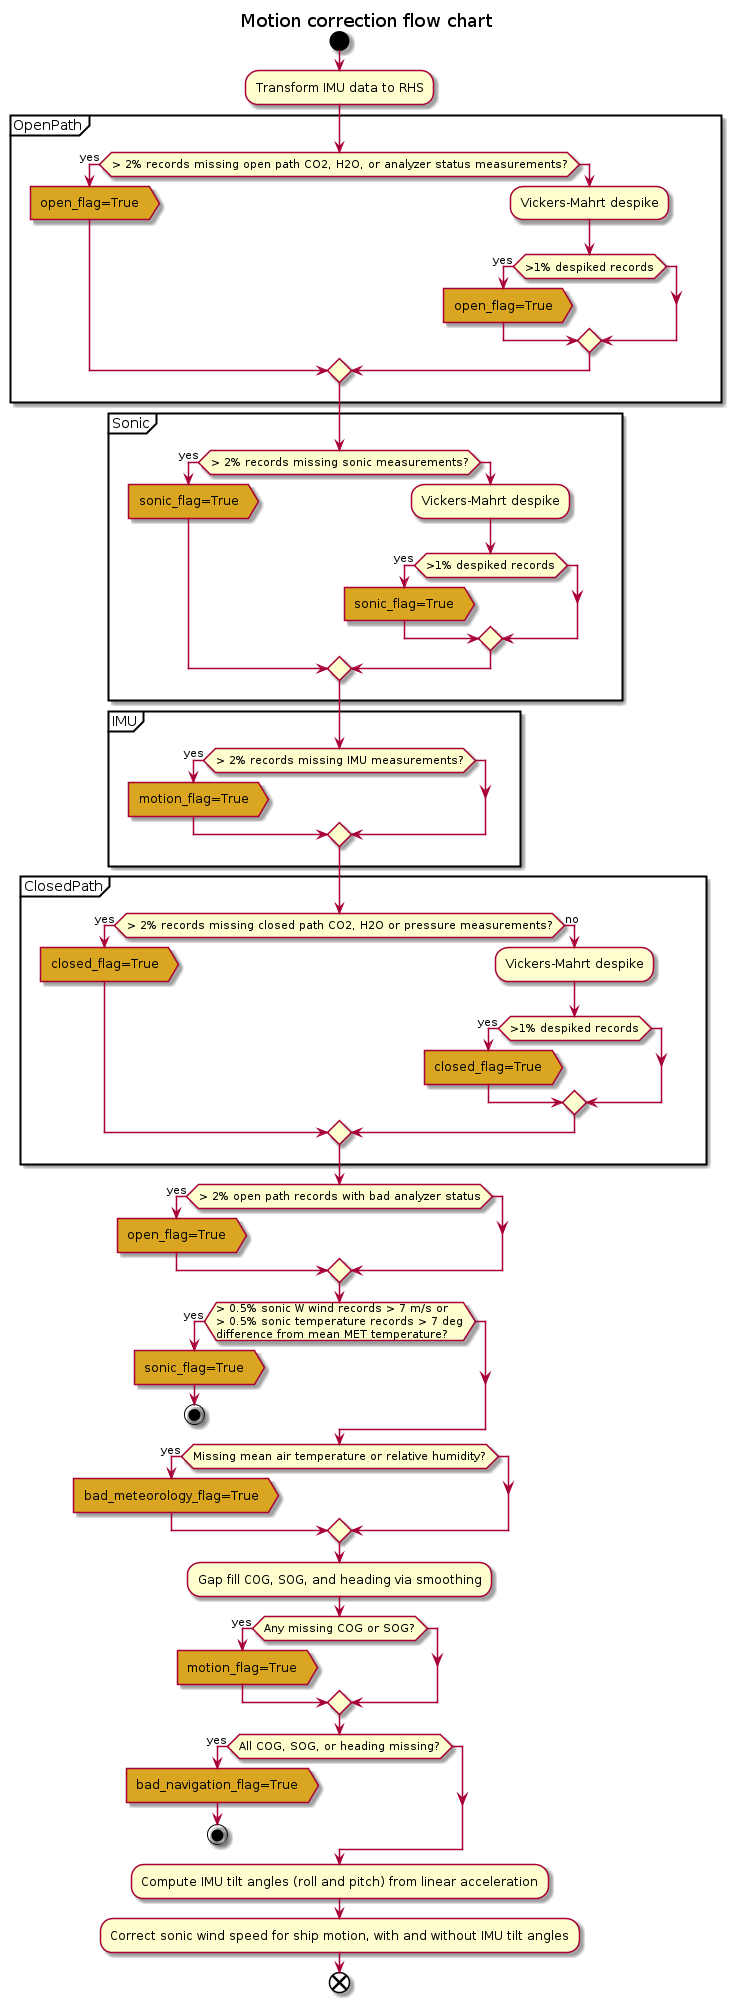
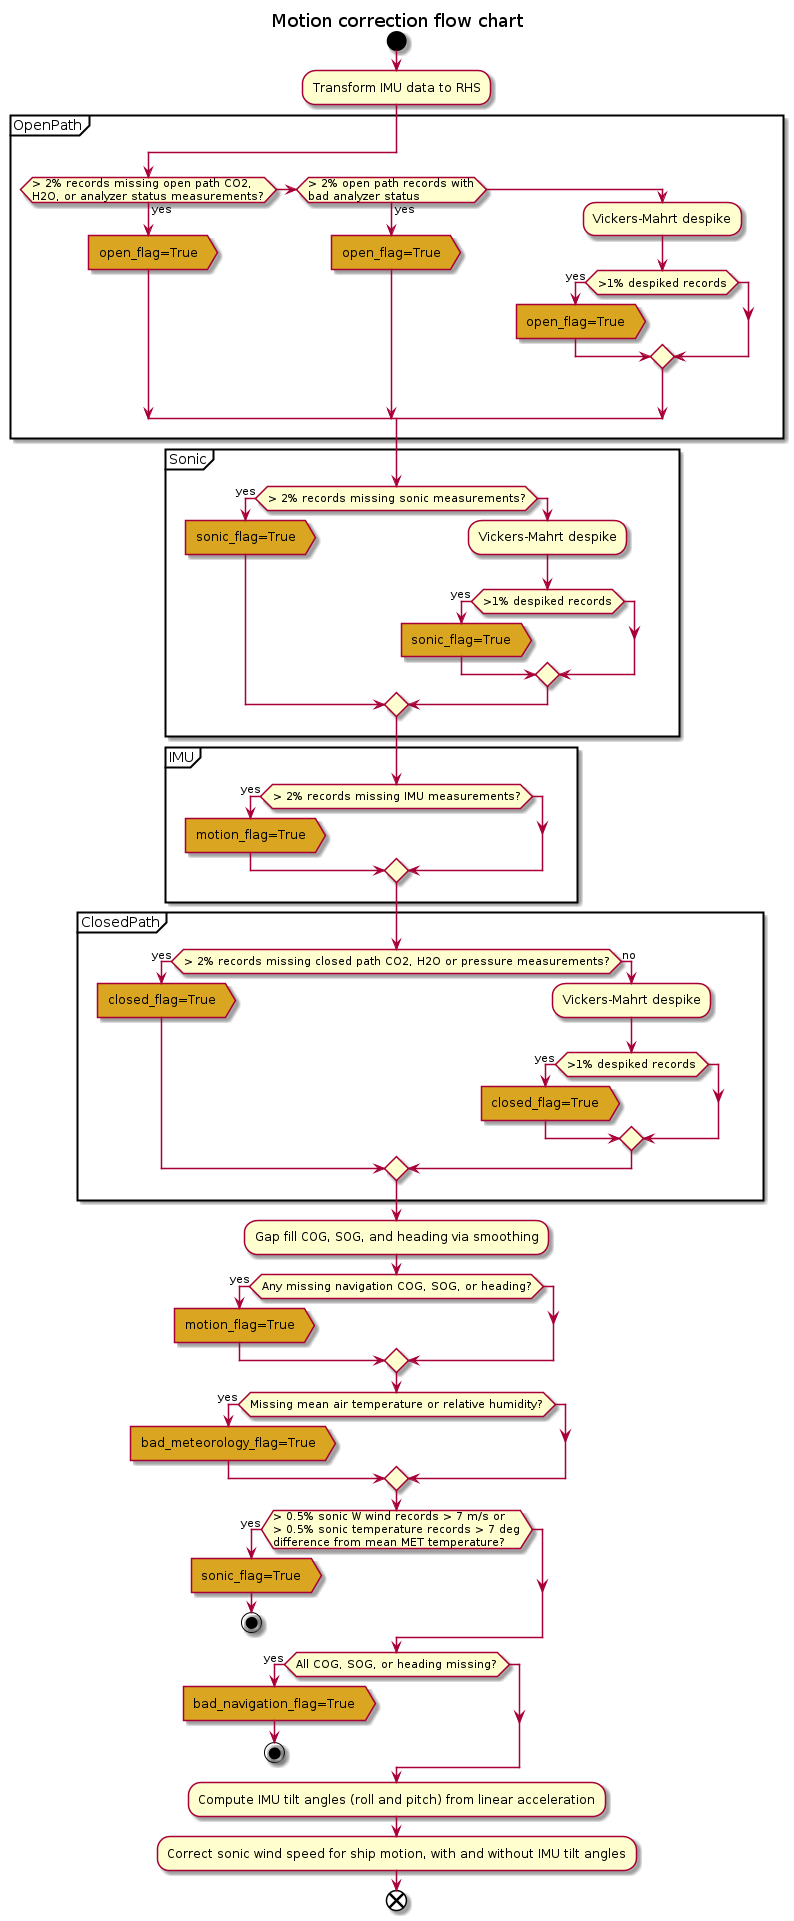
Refactor flag building logic and flow control pre-motion-correction
* New module attribute to control possible flags
* Reorder flagging order using else clauses instead of if-not-in
* New Exception classes to handle own errors and pass flags

Changed region(s): [[0.0, 0.0, 0.9918, 0.9995]]

diff --git a/fluxer/eddycov/db_flux.py b/fluxer/eddycov/db_flux.py
@@ -22,12 +22,36 @@ from fluxer.eddycov.flux import (smooth_angle, wind3D_correct,
 __all__ = ["main", "flux_period"]
 
 plt.style.use("ggplot")
+_FLUX_FLAGS = ["open_flag", "closed_flag", "sonic_flag",
+               "motion_flag", "bad_navigation_flag",
+               "bad_meteorology_flag"]
 
 
-# Exception classes for catching our problems
+# Exception classes for catching our conditions
 class FluxError(Exception):
     """Base class for Exceptions in this module"""
     pass
+
+
+class SonicError(FluxError):
+    """Critical sonic anemometer Exception"""
+    def __init__(self, message, flags):
+        self.message = message
+        self.flags = flags
+
+
+class NavigationError(FluxError):
+    """Critical navigation Exception"""
+    def __init__(self, message, flags):
+        self.message = message
+        self.flags = flags
+
+
+class MeteorologyError(FluxError):
+    """Critical meteorology Exception"""
+    def __init__(self, message, flags):
+        self.message = message
+        self.flags = flags
 
 
 def flux_period(period_file, config):
@@ -51,9 +75,7 @@ def flux_period(period_file, config):
                      false_values=["f"])
     ec_nrows = len(ec.index)
     # Initial values for flags
-    open_flag, closed_flag = False, False
-    sonic_flag, motion_flag = False, False
-    bad_navigation_flag, bad_meteorology_flag = False, False
+    period_flags = dict.fromkeys(_FLUX_FLAGS, False)
     # Put acceleration components in 3-column array and make copy to keep
     # uncorrected data.  Original comment: read in angular rates in RH
     # coordinate system, convert to rad/s.
@@ -88,43 +110,52 @@ def flux_period(period_file, config):
                                           np.radians(ec[imu_ang_zname]))})
     del motion3d_pre
     wind = ec[["wind_speed_u", "wind_speed_v", "wind_speed_w"]].copy()
+
     # [Original comment: check for any significant number of 'NAN's (not
     # worried about the odd one scattered here and there)].  [Original
     # comment: set open flag if gt 2% of records are 'NAN']
+    win_width = np.int(config["EC Despiking"]["despike_win_width"])
+    win_step = np.int(config["EC Despiking"]["despike_step"])
+    nreps = np.int(config["EC Despiking"]["despike_nreps"])
     if (((ec.op_CO2_density.count() / float(ec_nrows)) < 0.98) or
         ((ec.op_H2O_density.count() / float(ec_nrows)) < 0.98) or
         ((ec.op_analyzer_status.count() / float(ec_nrows)) < 0.98)):
-        open_flag = True
+        period_flags["open_flag"] = True
+    # TODO: Here we need to prepare our check for the diagnostics from the
+    # open path analyzers.  For now, keep using the rule of thumb
+    elif (ec.op_analyzer_status.gt(249) |
+        ec.op_analyzer_status.lt(240)).sum() > 0.02:
+        period_flags["open_flag"] = True
+    else:
+        op_CO2_VM = despike_VickersMahrt(ec.op_CO2_density,
+                                         width=win_width, step=win_step,
+                                         zscore_thr=3.5, nreps=nreps)
+        ec.op_CO2_density = op_CO2_VM[0]
+        op_H2O_VM = despike_VickersMahrt(ec.op_H2O_density,
+                                         width=win_width, step=win_step,
+                                         zscore_thr=3.5, nreps=nreps)
+        ec.op_H2O_density = op_H2O_VM[0]
+        op_Pr_VM = despike_VickersMahrt(ec.op_pressure,
+                                        width=win_width, step=win_step,
+                                        zscore_thr=3.5, nreps=nreps)
+        ec.op_pressure = op_Pr_VM[0]
+        if (((op_CO2_VM[1] / ec.op_CO2_density.count()) > 0.01) or
+            ((op_H2O_VM[1] / ec.op_H2O_density.count()) > 0.01) or
+            ((op_Pr_VM[1] / ec.op_pressure.count()) > 0.01)):
+            period_flags["open_flag"] = True
+
     # [Original comment: set wind flag if gt 2% of records are 'NAN']
     if (((wind.wind_speed_u.count() / float(ec_nrows)) < 0.98) or
         ((wind.wind_speed_v.count() / float(ec_nrows)) < 0.98) or
         ((wind.wind_speed_w.count() / float(ec_nrows)) < 0.98) or
         ((ec.air_temperature_sonic.count() / float(ec_nrows)) < 0.98)):
-        sonic_flag = True
-    # [Original comment: set motion flag if gt 2% of records are 'NAN']
-    if (((motion3d.acceleration_x.count() / float(ec_nrows)) < 0.98) or
-        ((motion3d.acceleration_y.count() / float(ec_nrows)) < 0.98) or
-        ((motion3d.acceleration_z.count() / float(ec_nrows)) < 0.98) or
-        ((motion3d.rate_phi.count() / float(ec_nrows)) < 0.98) or
-        ((motion3d.rate_theta.count() / float(ec_nrows)) < 0.98) or
-        ((motion3d.rate_shi.count() / float(ec_nrows)) < 0.98)):
-        motion_flag = True
-    # Set closed flag is more than 2% of records are NaN.
-    if (((ec.cp_CO2_fraction.count() / float(ec_nrows)) < 0.98) or
-        ((ec.cp_H2O_fraction.count() / float(ec_nrows)) < 0.98) or
-        ((ec.cp_pressure.count() / float(ec_nrows)) < 0.98)):
-        closed_flag = True
-
-    # [Original comment: now that we have looked for NANs, we may as
-    # well fill in the NANs and any spikes using the shot filter].
-    # [SPL: these changes are done outside the WIND array, which is
-    # the one that is used later for motion correction, etc., so they
-    # are lost.]
-    win_width = np.int(config["EC Despiking"]["despike_win_width"])
-    win_step = np.int(config["EC Despiking"]["despike_step"])
-    nreps = np.int(config["EC Despiking"]["despike_nreps"])
-
-    if not sonic_flag:
+        period_flags["sonic_flag"] = True
+    else:
+        # [Original comment: now that we have looked for NANs, we may as
+        # well fill in the NANs and any spikes using the shot filter].
+        # [SPL: these changes are done outside the WIND array, which is the
+        # one that is used later for motion correction, etc., so they are
+        # lost.]
         wind_u_VM = despike_VickersMahrt(wind.wind_speed_u,
                                          width=win_width, step=win_step,
                                          zscore_thr=3.5, nreps=nreps)
@@ -146,27 +177,32 @@ def flux_period(period_file, config):
             ((wind_v_VM[1] / wind.wind_speed_v.count()) > 0.01) or
             ((wind_w_VM[1] / wind.wind_speed_w.count()) > 0.01) or
             ((sonic_T_VM[1] / ec.air_temperature_sonic.count()) > 0.01)):
-            sonic_flag = True
+            period_flags["sonic_flag"] = True
 
-    if not open_flag:
-        op_CO2_VM = despike_VickersMahrt(ec.op_CO2_density,
-                                         width=win_width, step=win_step,
-                                         zscore_thr=3.5, nreps=nreps)
-        ec.op_CO2_density = op_CO2_VM[0]
-        op_H2O_VM = despike_VickersMahrt(ec.op_H2O_density,
-                                         width=win_width, step=win_step,
-                                         zscore_thr=3.5, nreps=nreps)
-        ec.op_H2O_density = op_H2O_VM[0]
-        op_Pr_VM = despike_VickersMahrt(ec.op_pressure,
-                                        width=win_width, step=win_step,
-                                        zscore_thr=3.5, nreps=nreps)
-        ec.op_pressure = op_Pr_VM[0]
-        if (((op_CO2_VM[1] / ec.op_CO2_density.count()) > 0.01) or
-            ((op_H2O_VM[1] / ec.op_H2O_density.count()) > 0.01) or
-            ((op_Pr_VM[1] / ec.op_pressure.count()) > 0.01)):
-            open_flag = True
+    # [Original comment: set motion flag if gt 2% of records are 'NAN']
+    if (((motion3d.acceleration_x.count() / float(ec_nrows)) < 0.98) or
+        ((motion3d.acceleration_y.count() / float(ec_nrows)) < 0.98) or
+        ((motion3d.acceleration_z.count() / float(ec_nrows)) < 0.98) or
+        ((motion3d.rate_phi.count() / float(ec_nrows)) < 0.98) or
+        ((motion3d.rate_theta.count() / float(ec_nrows)) < 0.98) or
+        ((motion3d.rate_shi.count() / float(ec_nrows)) < 0.98)):
+        period_flags["motion_flag"] = True
+    else:
+        # [Original comment: shot filter the motion channels... this helps with
+        # a problem where unreasonably high accelerations cause a 'NaN'
+        # calculation]
+        for col in motion3d.columns:
+            motcol_VM = despike_VickersMahrt(motion3d[col],
+                                             width=win_width, step=win_step,
+                                             zscore_thr=3.5, nreps=nreps)
+            motion3d[col] = motcol_VM[0]
 
-    if not closed_flag:
+    # Set closed flag is more than 2% of records are NaN.
+    if (((ec.cp_CO2_fraction.count() / float(ec_nrows)) < 0.98) or
+        ((ec.cp_H2O_fraction.count() / float(ec_nrows)) < 0.98) or
+        ((ec.cp_pressure.count() / float(ec_nrows)) < 0.98)):
+        period_flags["closed_flag"] = True
+    else:
         cp_CO2_VM = despike_VickersMahrt(ec.cp_CO2_fraction,
                                          width=win_width, step=win_step,
                                          zscore_thr=3.5, nreps=nreps)
@@ -182,13 +218,24 @@ def flux_period(period_file, config):
         if (((cp_CO2_VM[1] / ec.cp_CO2_fraction.count()) > 0.01) or
             ((cp_H2O_VM[1] / ec.cp_H2O_fraction.count()) > 0.01) or
             ((cp_Pr_VM[1] / ec.cp_pressure.count()) > 0.01)):
-            closed_flag = True
+            period_flags["closed_flag"] = True
 
-    # TODO: Here we need to prepare our check for the diagnostics from the
-    # open path analyzers.  For now, keep using the rule of thumb
-    if (ec.op_analyzer_status.gt(249) |
-        ec.op_analyzer_status.lt(240)).sum() > 0.02:
-        open_flag = True
+    # [Original comment: now fill in the gaps by applying a moving
+    # average... In this case, we use a 100 sample window (10 sec) moving
+    # average... may need to tweak this value].  [SPL: perhaps a simple
+    # linear interpolation is better; I don't know why this moving average
+    # is used, where a window must be specified and may be introducing
+    # bias.  Perhaps it doesn't matter.  Why aren't latitude and longitude
+    # similarly interpolated?]
+    cog, sog = smooth_angle(ec["course_over_ground"].values,
+                            ec["speed_over_ground"].values, 21)
+    cog = pd.Series(cog, index=ec.index)
+    sog = pd.Series(sog, index=ec.index)
+    heading, _ = smooth_angle(ec["heading"].values, 1, 21)
+    heading = pd.Series(heading, index=ec.index)
+    if ((cog.count() < len(cog)) or (sog.count() < len(sog)) or
+        (heading.count < len(heading))):
+        period_flags["motion_flag"] = True
 
     # [Original comment: check for bad wind data: bad wind data can
     # usually be diagnosed by unusually high wind speeds.  This is
@@ -199,50 +246,29 @@ def flux_period(period_file, config):
     nbad_vertical_wind = abs(wind["wind_speed_w"]).gt(7).sum()
     nbad_air_temp_sonic = abs(ec["air_temperature_sonic"] -
                               air_temp_avg).gt(7).sum()
-    # Set wind flag high if gt 0.5% of records are frost contaminated
-    if ((nbad_vertical_wind / float(ec_nrows)) > 0.5 or
-        (nbad_air_temp_sonic / float(ec_nrows)) > 0.5):
-        sonic_flag = True
-        raise FluxError("Bad sonic anemometer data")
-    # [Original comment: check critical low frequency variabiles]
     if not (np.isfinite(air_temp_avg) or
             np.isfinite(ec.relative_humidity[0])):
-        bad_meteorology_flag = True
-        raise FluxError("RH or average air temperature unavailable")
+        period_flags["bad_meteorology_flag"] = True
+
+    # Now raise Exceptions to signal rest of analyses cannot continue.
+    # Return flags so they can be caught and used later.
+
+    # Set wind flag high if gt 0.5% of records are frost contaminated
+    # [Original comment: check critical low frequency variables]
+    if ((nbad_vertical_wind / float(ec_nrows)) > 0.05 or
+        (nbad_air_temp_sonic / float(ec_nrows)) > 0.05):
+        period_flags["sonic_flag"] = True
+        raise SonicError("Bad sonic anemometer data", period_flags)
     # # Below will be needed at some point
     # sw_avg = ec.K_down[0]
     # lw_avg = ec.LW_down[0]
     # sog_avg = ec["speed_over_ground"].mean()
 
-    # [Original comment: now fill in the gaps by applying a moving
-    # average... In this case, we use a 100 sample window (10 sec) moving
-    # average... may need to tweak this value].  [SPL: perhaps a simple
-    # linear interpolation is better; I don't know why this moving average
-    # is used, where a window must be specified and may be introducing
-    # bias.  Perhaps it doesn't matter.  Why aren't latitude and longitude
-    # not similarly interpolated?]
-    cog, sog = smooth_angle(ec["course_over_ground"].values,
-                            ec["speed_over_ground"].values, 21)
-    cog = pd.Series(cog, index=ec.index)
-    sog = pd.Series(sog, index=ec.index)
-    heading, _ = smooth_angle(ec["heading"].values, 1, 21)
-    heading = pd.Series(heading, index=ec.index)
-
-    if ((cog.count() < len(cog)) or (sog.count() < len(sog)) or
-        (heading.count < len(heading))):
-        motion_flag = True
     # If we have no good COG, SOG, or heading, then we cannot continue.
     if cog.count() < 1 or sog.count() < 1 or heading.count() < 1:
-        bad_navigation_flag = True
-        raise FluxError("Unusable COG, SOG, or heading records")
-    # [Original comment: shot filter the motion channels... this helps with
-    # a problem where unreasonably high accelerations cause a 'NaN'
-    # calculation]
-    for col in motion3d.columns:
-        motcol_VM = despike_VickersMahrt(motion3d[col],
-                                         width=win_width, step=win_step,
-                                         zscore_thr=3.5, nreps=nreps)
-        motion3d[col] = motcol_VM[0]
+        period_flags["bad_navigation_flag"] = True
+        raise NavigationError("Unusable COG, SOG, or heading records",
+                              period_flags)
 
     # Tilt angles from IMU
     mot3d_k, mot3d_kcoefs = planarfit_coef(motion3d.values)
@@ -307,10 +333,7 @@ def flux_period(period_file, config):
     # Append results
     ec_wind_corr = pd.concat((ec, wind.loc[:, wind_corr_names[0]:]),
                              axis=1)
-    return ec_wind_corr, dict(open_flag=open_flag, closed_flag=closed_flag,
-                              sonic_flag=sonic_flag, motion_flag=motion_flag,
-                              bad_navigation_flag=bad_navigation_flag,
-                              bad_meteorology_flag=bad_meteorology_flag)
+    return ec_wind_corr, period_flags
 
 
 def main(config_file):
@@ -338,11 +361,9 @@ def main(config_file):
     if len(ec_files) < 1:
         raise FluxError("There are no input files")
 
-    # [Original comment: create flags for the 4 possible sources of "bad"
+    # [Original comment: create flags for the 6 possible sources of "bad"
     # data, flag=0 means data good]
-    flags = dict.fromkeys(["open_flag", "closed_flag", "sonic_flag",
-                           "motion_flag", "bad_navigation_flag",
-                           "bad_meteorology_flag"], False)
+    flags = dict.fromkeys(_FLUX_FLAGS, False)
     # We set up a dataframe with all files to process as index, and all the
     # flags as columns.  This is the basis for our summary output file;
     # other columns (such as flux summary calculations for the period)
@@ -358,8 +379,10 @@ def main(config_file):
 
         try:
             ec_wind_corr, ec_flags = flux_period(ec_file, config)
-        except FluxError as e:
-            print("{0}: {1}".format(ec_file, e.message))
+        except (NavigationError, SonicError) as err:
+            for k, v in err.flags.items():
+                osummary.loc[iname, k] = v
+            print("{0}: {1}".format(ec_file, err.message))
         else:
             # Save to file with suffix "_mc.csv"
             ec_wind_corr.to_csv(osp.join(ec_idir, iname_prefix + "_mc.csv"),
